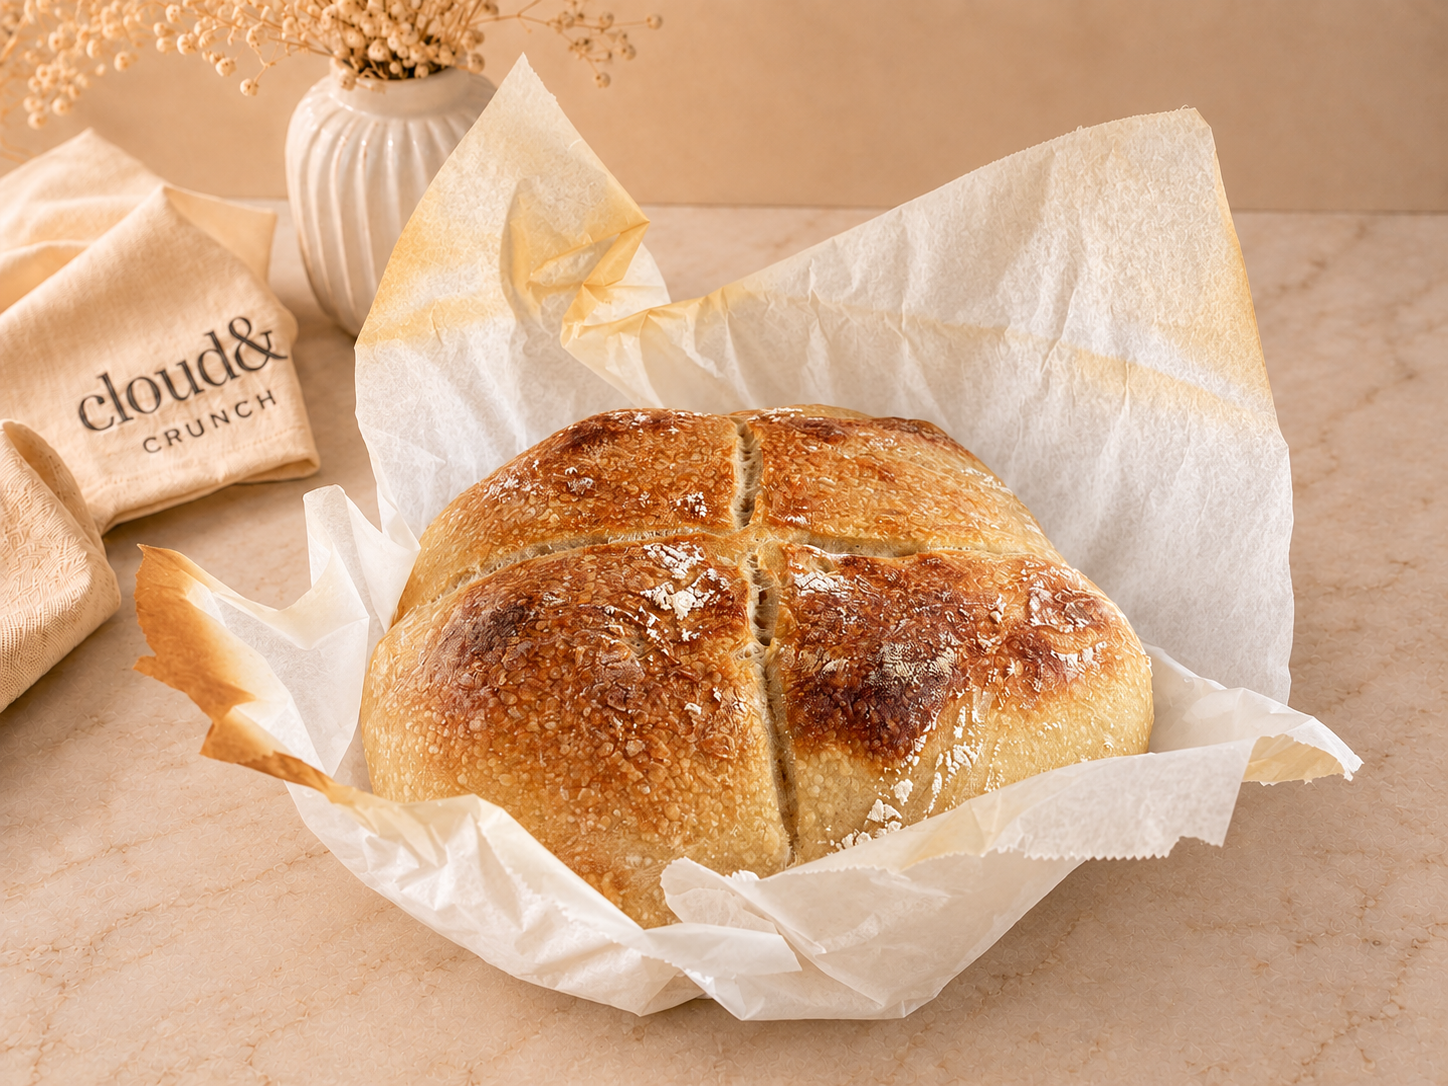
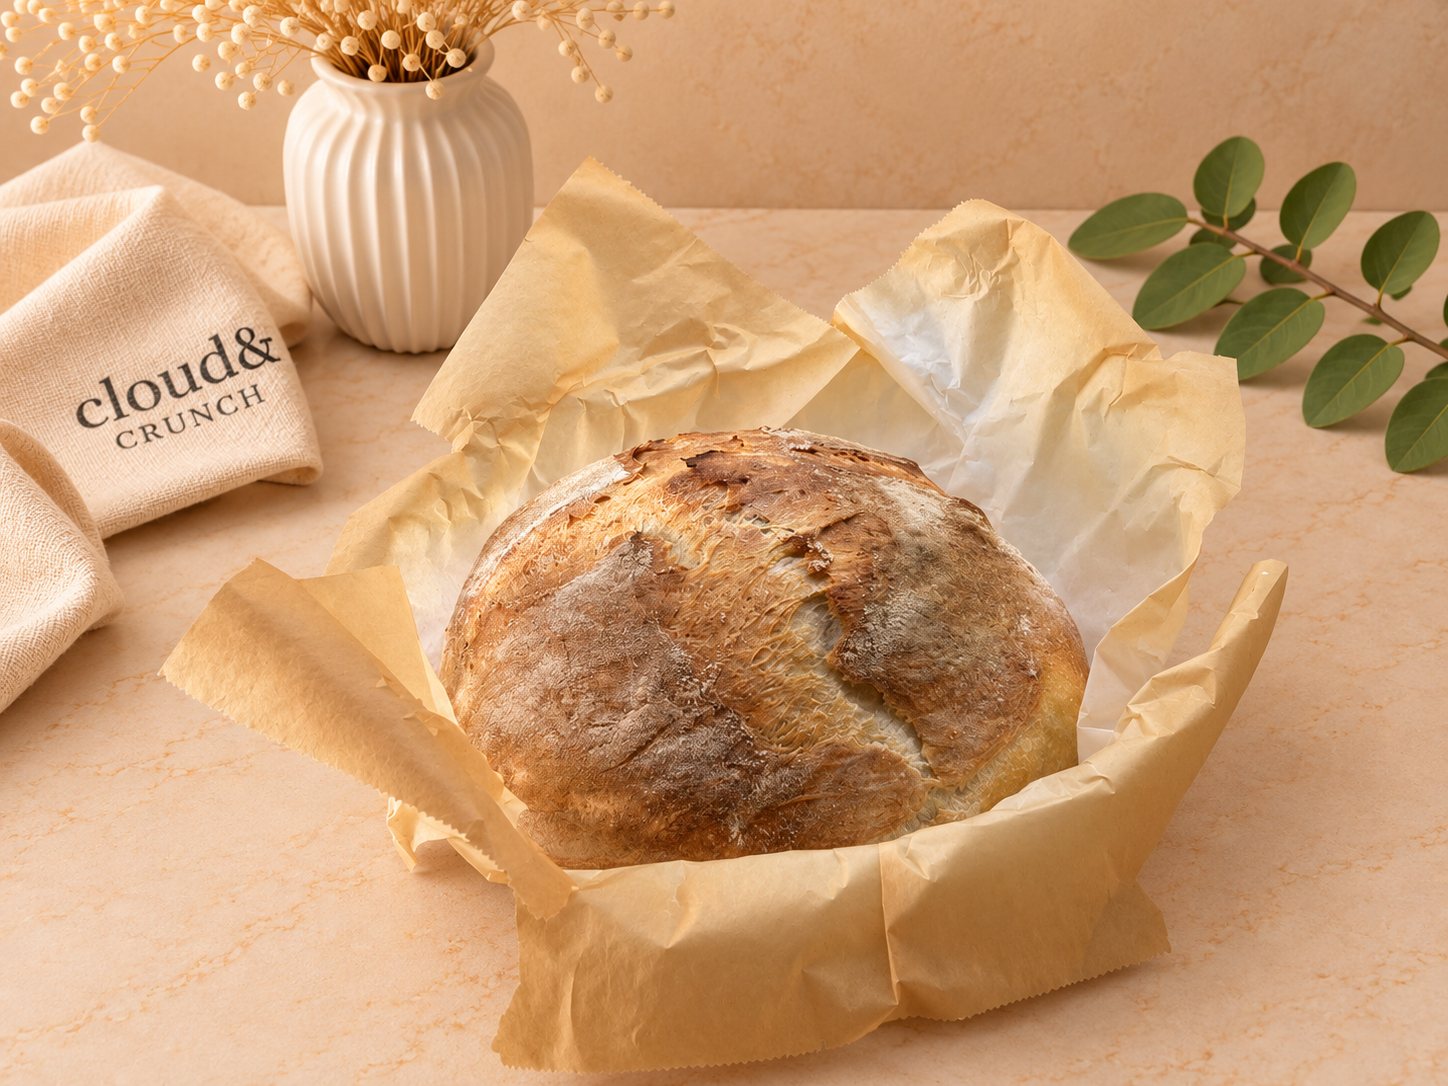
change image

diff --git a/components/Products.tsx b/components/Products.tsx
@@ -96,7 +96,7 @@ const products = [
   {
     name: 'Pão Artesanal',
     description: 'Pão artesanal feito com massa mãe, de fermentação lenta e sabor autêntico. Formato redondo. Tamanho: 23cm.',
-    image: '/images/pao-artesanal-24.webp',
+    image: '/images/pao-artesanal.webp',
     category: 'Bonus',
   },
   {

diff --git a/app/clientes/page.tsx b/app/clientes/page.tsx
@@ -222,7 +222,7 @@ const bonus = [
     minQuantity: '1',
     price: '5.00',
     priceNote: 'Feito com massa mãe',
-    image: '/images/pao-artesanal-24.webp',
+    image: '/images/pao-artesanal.webp',
   },
 ];
 
